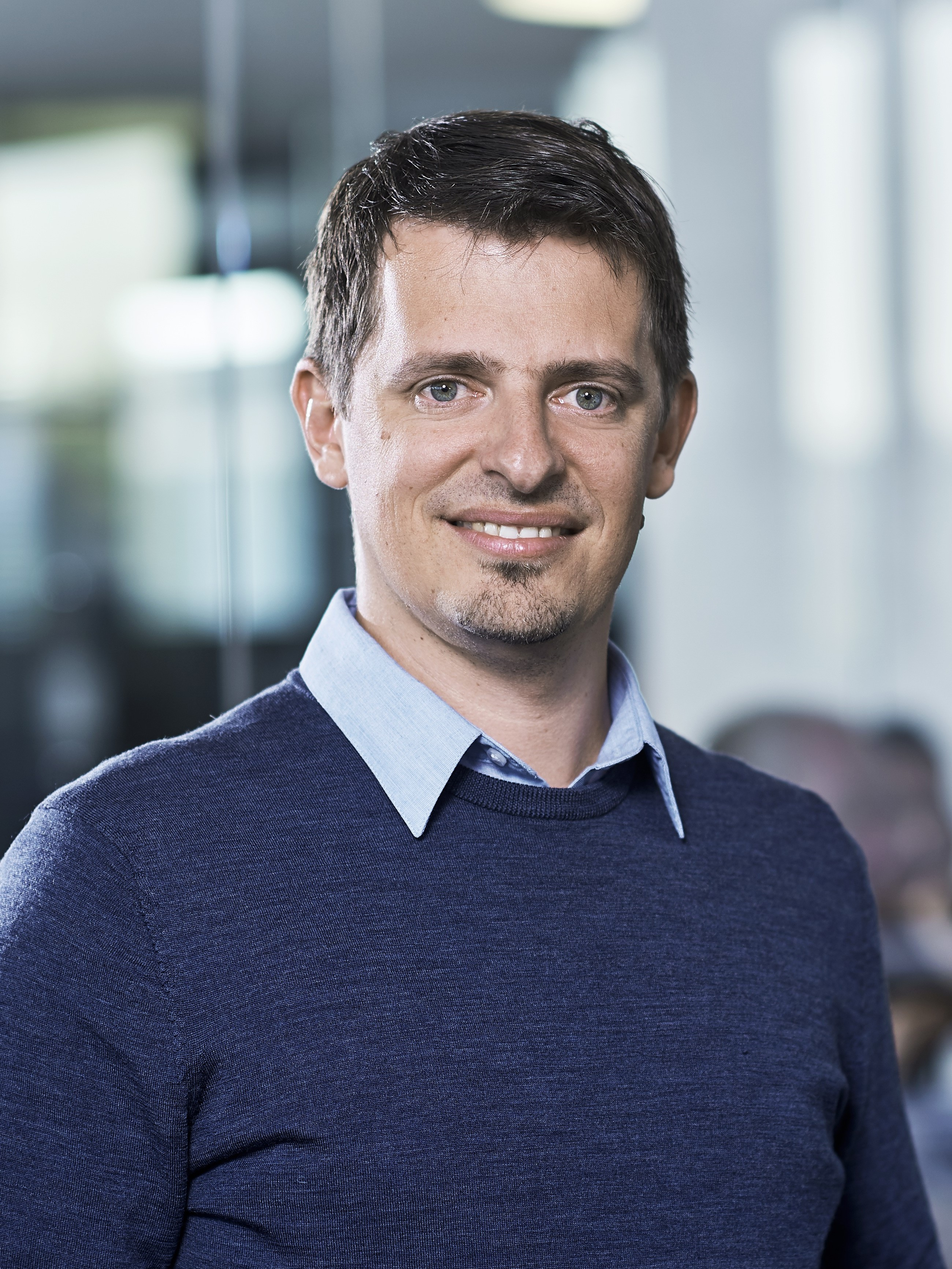
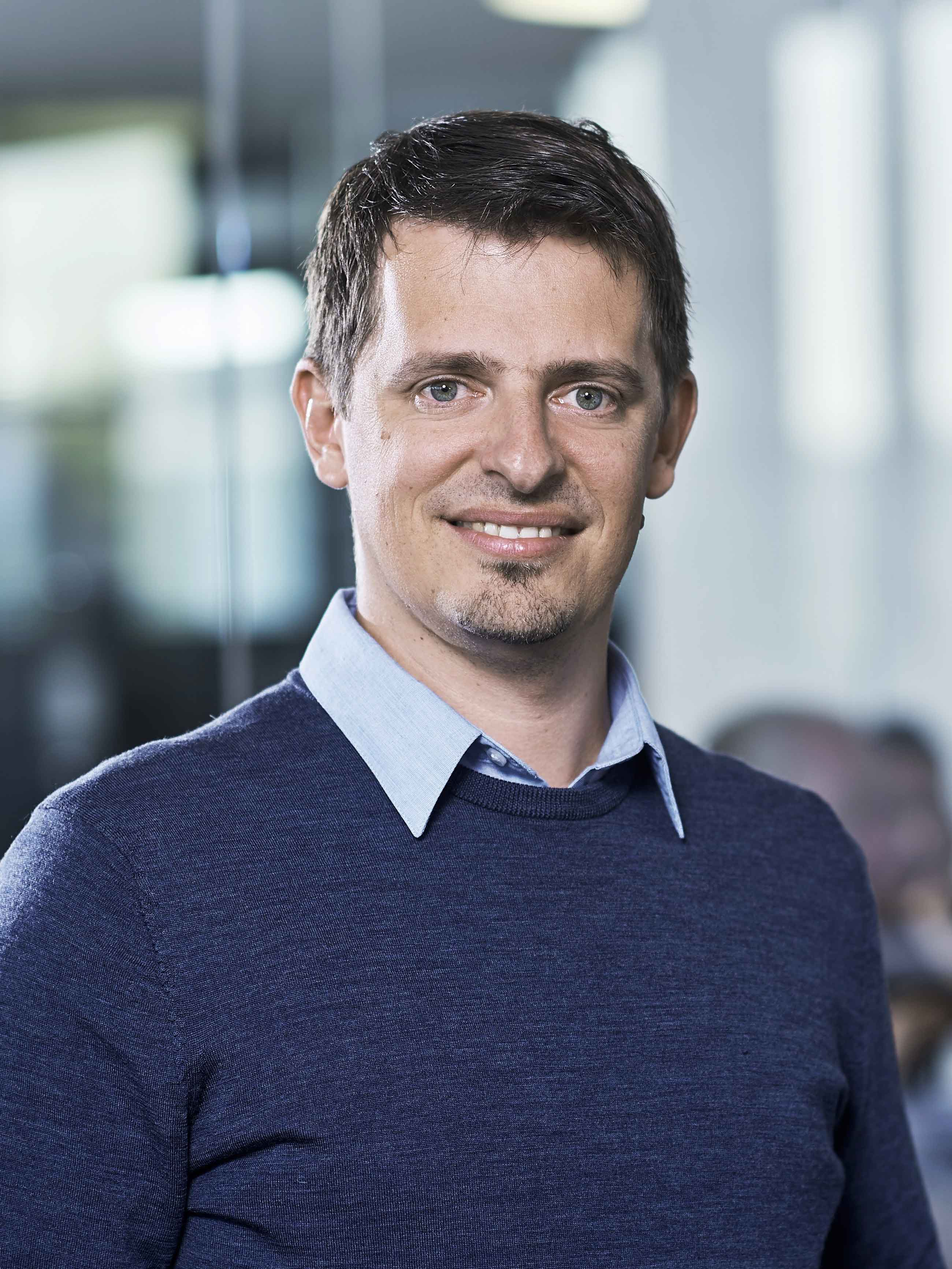
New team members images and smaller image sizes adjustments

Changed region(s): [[0.1869, 0.7169, 0.5296, 1.0], [0.4985, 0.9974, 0.5296, 1.0]]

diff --git a/assets/css/style.css b/assets/css/style.css
@@ -378,7 +378,7 @@ section {
 .hero {
   width: 100%;
   height: 100vh;
-  background: url(../img/gruner/hero-gruner-bg.png) top center no-repeat;
+  background: url(../img/gruner/hero-gruner-bg.jpg) top center no-repeat;
   background-size: cover;
   background-blend-mode:soft-light;
 }
